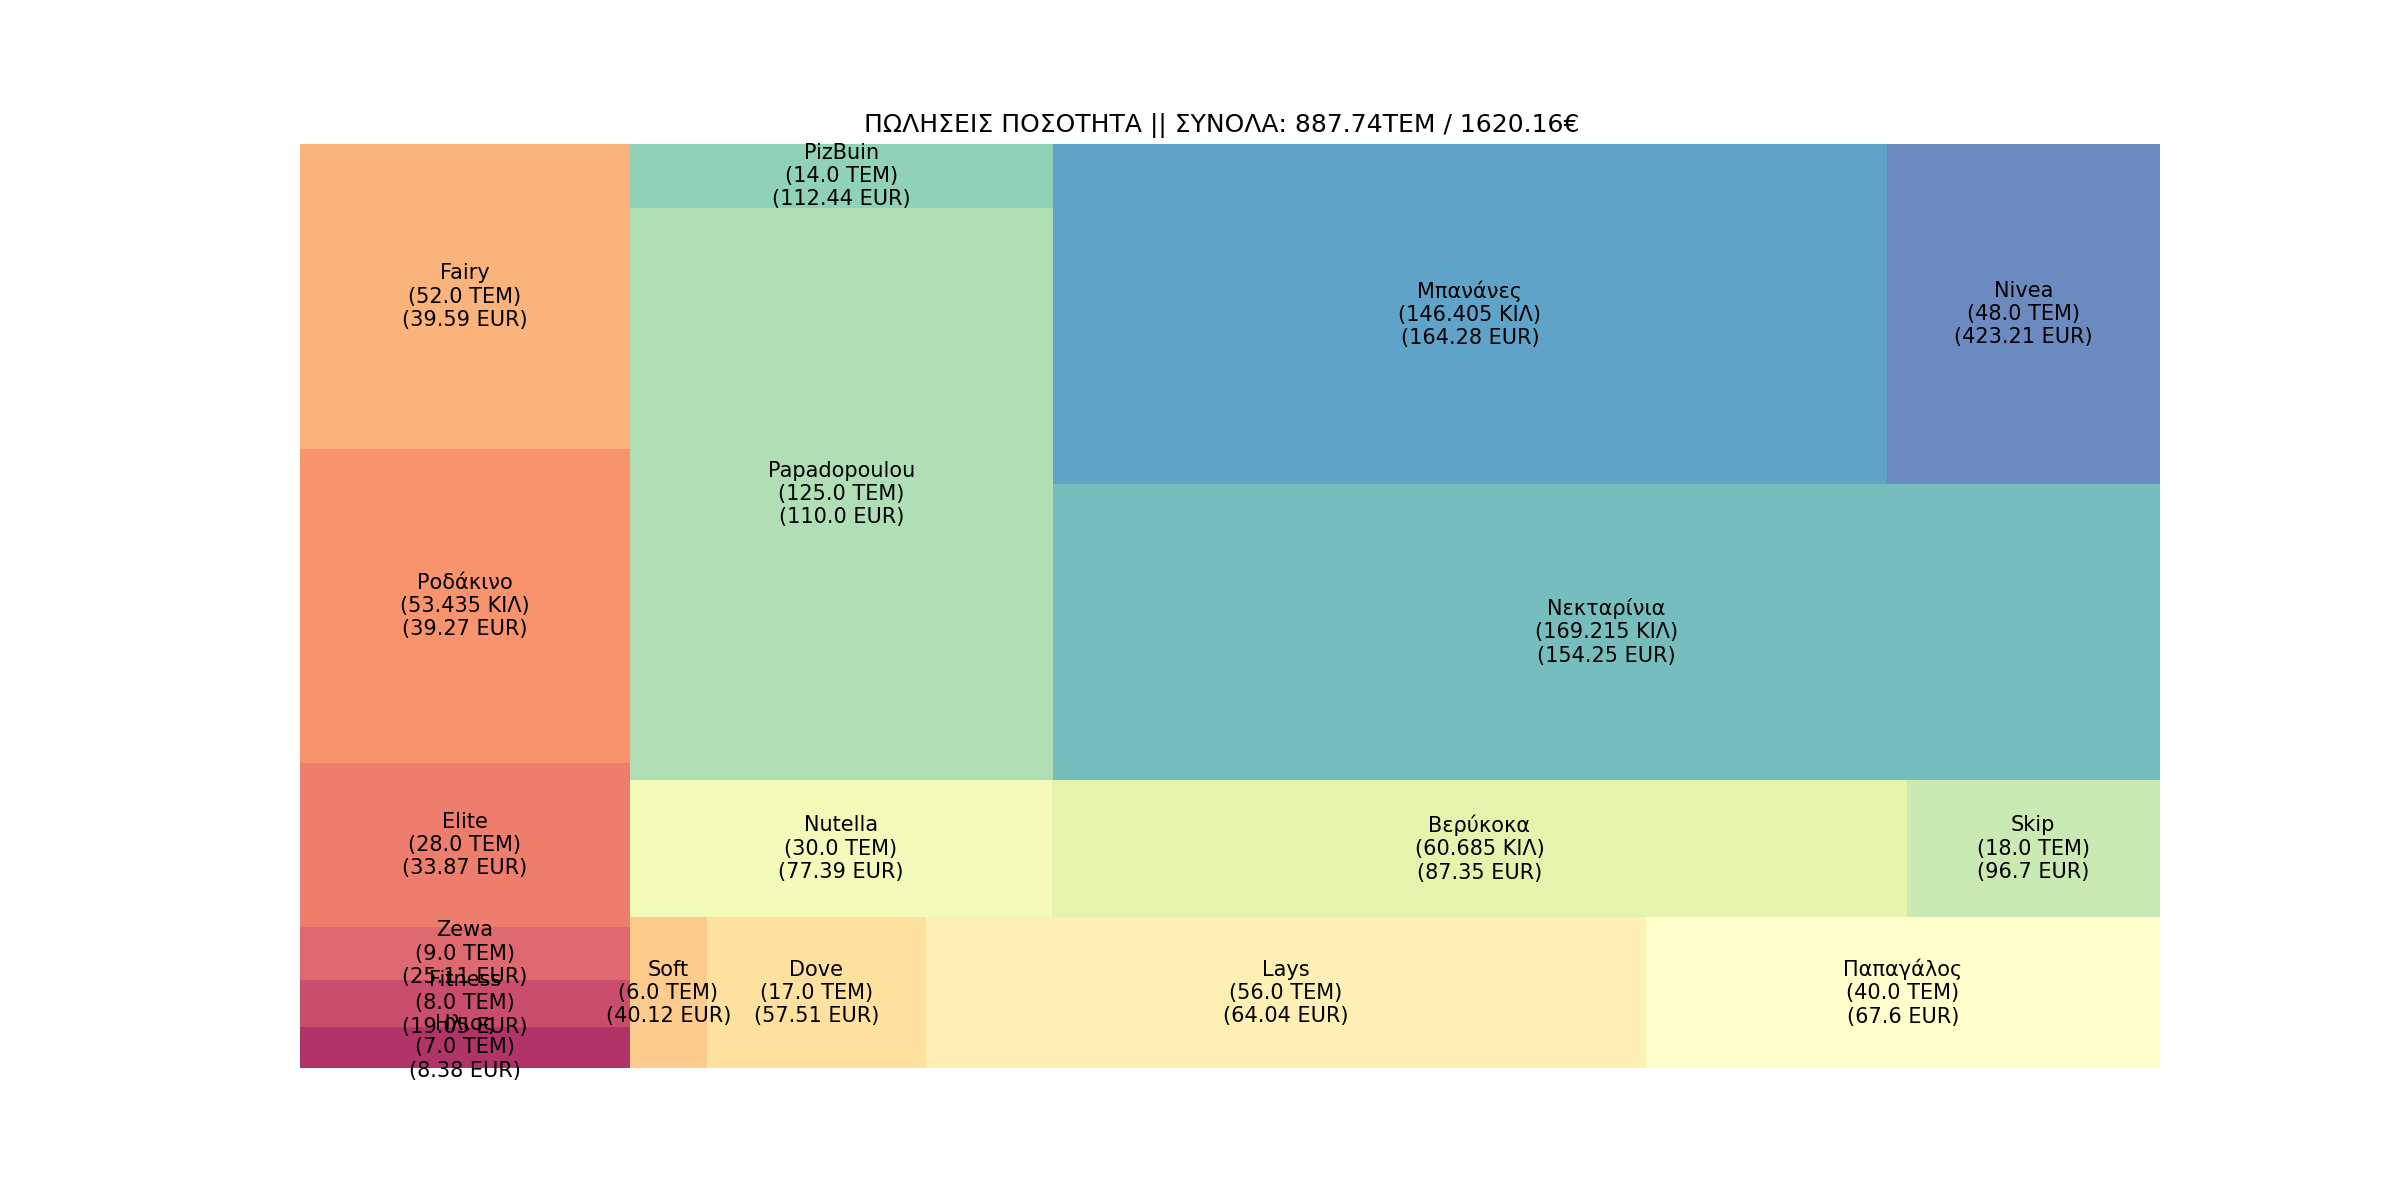
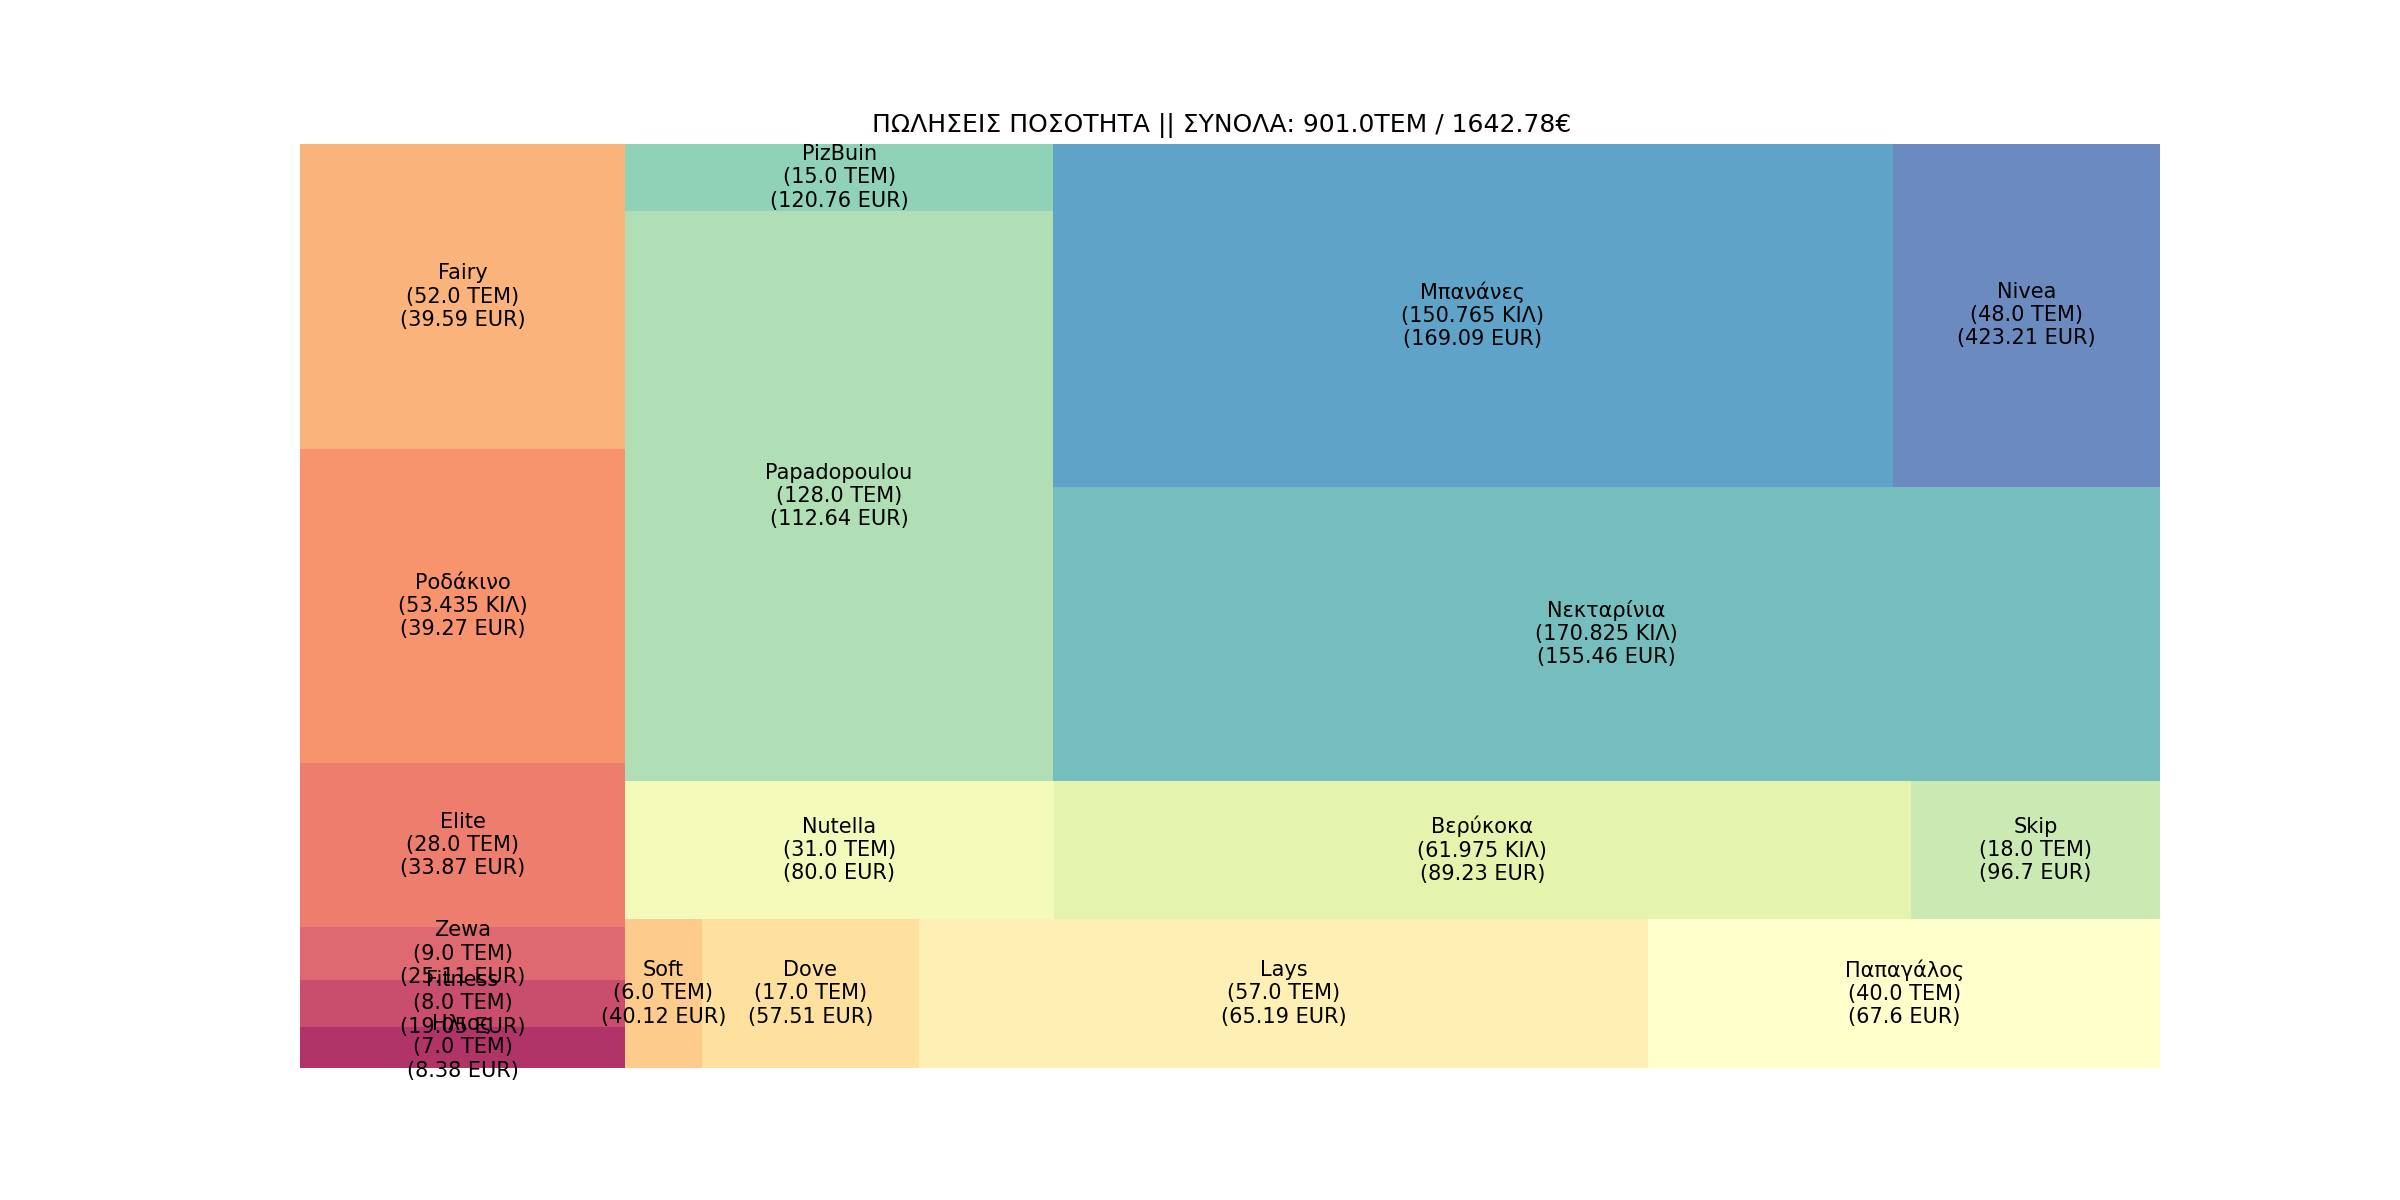
``@Ioannis E. Kommas (PyCharm Commit and Push Code Lines)``

diff --git a/A_DAILY_ΠΟΡΕΙΑ_ΤΙΜΟΚΑΤΑΛΟΓΟΥ_ΠΩΛΗΣΕΩΝ/library/timokatalogos.py b/A_DAILY_ΠΟΡΕΙΑ_ΤΙΜΟΚΑΤΑΛΟΓΟΥ_ΠΩΛΗΣΕΩΝ/library/timokatalogos.py
@@ -94,10 +94,10 @@ jule_2020 = Timokatalogos(15,
 jule_2020_b = Timokatalogos(16,
                             datetime(2020, 7, 16),
                             datetime(2020, 7, 31),
-                            'Αφορά: B Δεκαπενθήμερο Προσφορών Ιουλίου & Eπέκταση (Παπαγάλος)')
+                            'Αφορά: B Δεκαπενθήμερο Προσφορών Ιουλίου & Eπέκταση (Nivea (1+1) - Παπαγάλος - Nutella)')
 
 lista_2020 = [january_2020_02, nestle_2020, feb_2020, kinder_2020, xtapodi_2020, nescafe_2020, march_2020, april_2020,
-              alevri_2020, may_2020, may_2020_b, nuvoleta_2020, june_2020, june_extra_2020, jule_2020]
+              alevri_2020, may_2020, may_2020_b, nuvoleta_2020, june_2020, june_extra_2020, jule_2020, jule_2020_b]
 
 for i in lista_2020:
     print(i.id, i.comments)
